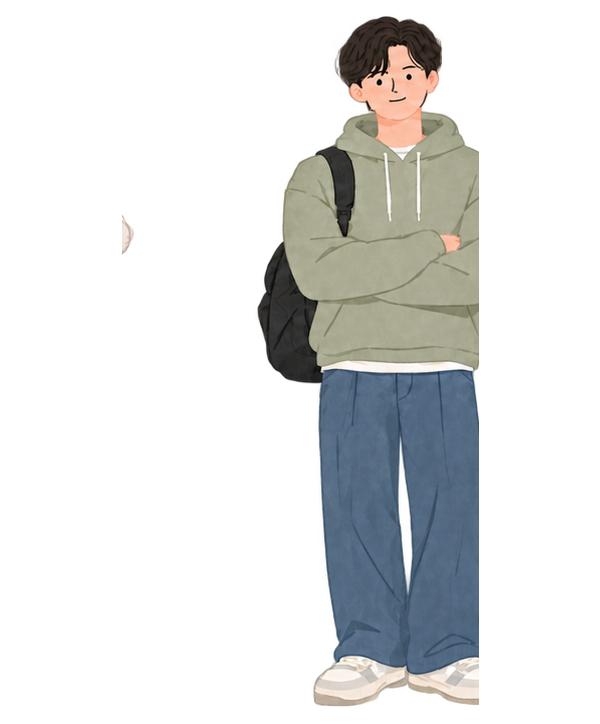
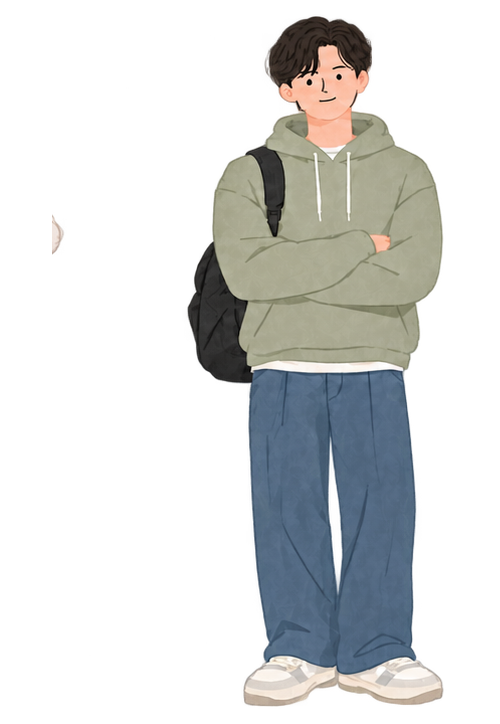
Fix result portrait crops and centering

diff --git a/index.html b/index.html
@@ -11,8 +11,8 @@
     header{height:82px;display:flex;align-items:center;justify-content:space-between;border-bottom:1px solid var(--line);font-size:14px;letter-spacing:.04em}.brand{display:flex;gap:11px;align-items:center;font-weight:600}.brand-mark{width:25px;height:25px;border:1px solid var(--green);border-radius:50%;display:grid;place-items:center;color:var(--green);font:italic 16px var(--serif)}.nav-note{color:var(--muted);letter-spacing:.02em;font-size:13px}
     main{min-height:calc(100vh - 140px)}.screen{display:none}.screen.active{display:block}.hero{display:grid;grid-template-columns:.82fr 1.18fr;gap:34px;align-items:center;min-height:calc(100vh - 178px);padding:48px 0}.hero-copy{display:block}.hero-title-block{max-width:480px}.eyebrow{font-size:15px;letter-spacing:.04em;text-transform:uppercase;color:var(--green);font-weight:600}.hero h1{font:400 clamp(38px,4.4vw,62px)/1.2 var(--serif);letter-spacing:-.035em;margin:20px 0 16px}.hero h1 span{display:block;color:var(--green);font-size:.62em;letter-spacing:.01em;margin:8px 0 0}.hero p{color:var(--muted);font-size:15px;line-height:1.9;max-width:400px;margin:0}.hero-actions{display:flex;align-items:center;gap:18px;margin:29px 0 0;white-space:nowrap}.history-link{border:0;background:none;padding:10px 0;color:var(--green);cursor:pointer;font-size:14px}.history-link span{color:var(--muted);margin-left:5px}.primary{background:var(--ink);color:#fff;padding:15px 27px;border:0;border-radius:2px;cursor:pointer;letter-spacing:.04em;transition:.2s}.primary:hover{background:var(--green);transform:translateY(-2px)}.text-link{border:0;background:none;color:var(--muted);cursor:pointer;font-size:14px}.hero-art{width:100%;line-height:0;position:relative;background:transparent;overflow:visible;border-radius:0;box-shadow:none}.hero-art img{display:block;width:100%;height:auto;max-height:calc(100vh - 280px);object-fit:contain;object-position:center;filter:none}.art-label{position:absolute;right:2px;bottom:-18px;background:transparent;padding:0;font-size:11px;letter-spacing:.02em;color:#73766c;line-height:1.4}.hero-foot{font-size:14px;letter-spacing:.04em;color:#999a91;margin-top:25px}
     footer{border-top:1px solid var(--line);min-height:58px;display:flex;align-items:center;justify-content:space-between;color:#73766c;font-size:12px;letter-spacing:.02em}.quiz{max-width:760px;margin:0 auto;padding:48px 0 70px}.quiz-top{display:flex;justify-content:space-between;align-items:center;color:var(--muted);font-size:15px;letter-spacing:.04em}.progress{height:2px;background:#e5e3da;margin:18px 0 48px}.progress span{display:block;height:100%;background:var(--green);transition:width .25s}.dimension{color:var(--green);font-size:15px;letter-spacing:.03em}.question{font:400 clamp(26px,4vw,38px)/1.5 var(--serif);margin:17px 0 30px;letter-spacing:-.02em}.answers{display:grid;gap:10px}.answer{width:100%;border:1px solid var(--line);background:var(--white);padding:16px 19px;display:flex;gap:17px;align-items:center;text-align:left;cursor:pointer;transition:.18s;border-radius:2px;font-size:16px;line-height:1.7}.answer:hover{border-color:var(--green);transform:translateX(3px)}.answer .letter{width:27px;height:27px;flex:0 0 27px;border:1px solid #d4d5ca;border-radius:50%;display:grid;place-items:center;color:var(--green);font:12px 'HY QiHei'}.quiz-nav{display:flex;justify-content:space-between;margin-top:25px}.back{border:0;background:none;color:var(--muted);cursor:pointer;font-size:14px;padding:10px 0}
-    .history{max-width:850px;margin:0 auto;padding:58px 0 76px}.history-head{display:flex;justify-content:space-between;align-items:end;border-bottom:1px solid var(--line);padding-bottom:19px}.history-head h2{font:400 38px var(--serif);margin:10px 0 0}.history-head p{font-size:14px;color:var(--muted);margin:0}.history-list{display:grid;gap:10px;margin-top:22px}.history-item{display:grid;grid-template-columns:54px 1fr auto;gap:15px;align-items:center;padding:17px 18px;background:var(--white);border:1px solid var(--line)}.history-type{font-size:15px;color:var(--green);letter-spacing:.02em}.history-name{font-size:17px}.history-meta{font-size:15px;color:var(--muted);margin-top:5px}.history-actions{display:flex;gap:8px}.history-actions button{border:1px solid var(--line);background:transparent;padding:9px 12px;font-size:15px;cursor:pointer}.history-actions button:hover{border-color:var(--green);color:var(--green)}.empty-history{text-align:center;border:1px dashed var(--line);padding:52px 20px;color:var(--muted);font-size:15px;line-height:2}.history-footer{display:flex;justify-content:space-between;align-items:center;margin-top:20px;color:var(--muted);font-size:15px}.history-footer button{border:0;background:none;color:var(--muted);cursor:pointer;text-decoration:underline;text-underline-offset:3px}.result{padding:60px 0 75px}.result-head{text-align:center}.result-head h2{font:400 42px var(--serif);margin:14px 0}.result-head p{font-size:15px;color:var(--muted);line-height:1.8}.result-card{max-width:850px;margin:35px auto 0;background:var(--white);border:1px solid var(--line);display:grid;grid-template-columns:.78fr 1.22fr;min-height:425px}.portrait{position:relative;background:#f3f1ea;overflow:hidden;display:flex;align-items:center;justify-content:center;min-height:425px;padding:24px}.portrait img{display:block;width:auto;height:auto;max-width:100%;max-height:377px;object-fit:contain;object-position:center center}.portrait .type-stamp{position:absolute;top:18px;left:18px;color:var(--green);font-size:14px;letter-spacing:.05em}.result-copy{padding:39px 43px}.result-copy h3{font:400 35px var(--serif);margin:5px 0 10px}.motto{font:italic 18px var(--serif);color:var(--green);margin:0 0 23px}.description{font-size:15px;line-height:1.9;color:#676a62}.chips{display:flex;gap:8px;flex-wrap:wrap;margin:21px 0}.chip{border:1px solid var(--line);padding:7px 11px;font-size:14px;color:#72766b}.score{border-top:1px solid var(--line);padding-top:19px;margin-top:20px}.score-row{display:flex;justify-content:space-between;align-items:center;margin-bottom:13px;font-size:15px;color:var(--muted)}.score-row strong{font-size:17px;color:var(--ink);font-weight:500}.meter{height:4px;background:#ecebe4;width:100%;margin-top:8px}.meter i{height:100%;display:block;background:var(--green)}.subscores{display:grid;grid-template-columns:repeat(3,1fr);gap:14px;margin-top:15px}.subscore{font-size:14px;color:var(--muted)}.subscore b{display:block;color:var(--ink);font-weight:500;font-size:15px;margin-bottom:4px}.result-disclaimer{font-size:14px;line-height:1.8;color:#96978e;margin:18px auto;max-width:850px}.result-actions{display:flex;justify-content:center;gap:12px;margin-top:23px;flex-wrap:wrap}.secondary{background:transparent;border:1px solid var(--line);padding:13px 20px;cursor:pointer;font-size:14px}.secondary:hover{border-color:var(--green);color:var(--green)}.identity{max-width:850px;margin:35px auto 0;padding:20px 23px;border:1px solid var(--line);display:flex;justify-content:space-between;align-items:center}.identity p{margin:0;font-size:14px;color:var(--muted);line-height:1.75}.identity button{border:0;background:none;text-decoration:underline;text-underline-offset:4px;cursor:pointer;font-size:14px}.undefined-note{text-align:center;color:var(--muted);font-size:15px;margin:23px}
-    @media(max-width:760px){.wrap{padding:0 22px}header{height:68px}.nav-note{font-size:12px}.hero{grid-template-columns:1fr;gap:24px;padding:42px 0 28px;min-height:unset}.hero-copy{display:block}.hero-title-block{max-width:100%}.hero h1{font-size:clamp(38px,9vw,54px);line-height:1.22}.hero-art{grid-row:1}.hero-art img{max-height:none;width:100%}.hero-actions{margin-top:23px}.hero-foot{margin-top:18px}.art-label{font-size:10px}.quiz{padding:36px 0 55px}.progress{margin:15px 0 38px}.answer{padding:14px}.result{padding:40px 0}.result-card{grid-template-columns:1fr}.portrait{min-height:300px;height:300px;padding:20px}.portrait img{width:auto;height:auto;max-width:100%;max-height:260px;object-fit:contain;object-position:center center}.result-copy{padding:28px 23px}.result-copy h3{font-size:30px}.history{padding:38px 0 55px}.history-head{display:block}.history-head p{margin-top:9px}.history-item{grid-template-columns:40px 1fr;gap:10px;padding:14px}.history-actions{grid-column:2}.history-actions button{flex:1}.history-footer{gap:10px;align-items:flex-start}.identity{gap:15px;padding:16px;align-items:flex-start}.identity p{line-height:1.7}footer{font-size:11px}}
+    .history{max-width:850px;margin:0 auto;padding:58px 0 76px}.history-head{display:flex;justify-content:space-between;align-items:end;border-bottom:1px solid var(--line);padding-bottom:19px}.history-head h2{font:400 38px var(--serif);margin:10px 0 0}.history-head p{font-size:14px;color:var(--muted);margin:0}.history-list{display:grid;gap:10px;margin-top:22px}.history-item{display:grid;grid-template-columns:54px 1fr auto;gap:15px;align-items:center;padding:17px 18px;background:var(--white);border:1px solid var(--line)}.history-type{font-size:15px;color:var(--green);letter-spacing:.02em}.history-name{font-size:17px}.history-meta{font-size:15px;color:var(--muted);margin-top:5px}.history-actions{display:flex;gap:8px}.history-actions button{border:1px solid var(--line);background:transparent;padding:9px 12px;font-size:15px;cursor:pointer}.history-actions button:hover{border-color:var(--green);color:var(--green)}.empty-history{text-align:center;border:1px dashed var(--line);padding:52px 20px;color:var(--muted);font-size:15px;line-height:2}.history-footer{display:flex;justify-content:space-between;align-items:center;margin-top:20px;color:var(--muted);font-size:15px}.history-footer button{border:0;background:none;color:var(--muted);cursor:pointer;text-decoration:underline;text-underline-offset:3px}.result{padding:60px 0 75px}.result-head{text-align:center}.result-head h2{font:400 42px var(--serif);margin:14px 0}.result-head p{font-size:15px;color:var(--muted);line-height:1.8}.result-card{max-width:850px;margin:35px auto 0;background:var(--white);border:1px solid var(--line);display:grid;grid-template-columns:.78fr 1.22fr;min-height:425px}.portrait{position:relative;background:#f3f1ea;overflow:visible;display:flex;align-items:center;justify-content:center;min-height:425px;padding:24px}.portrait img{display:block;width:100%;height:auto;max-height:377px;object-fit:contain;object-position:center center}.portrait .type-stamp{position:absolute;top:18px;left:18px;color:var(--green);font-size:14px;letter-spacing:.05em}.result-copy{padding:39px 43px}.result-copy h3{font:400 35px var(--serif);margin:5px 0 10px}.motto{font:italic 18px var(--serif);color:var(--green);margin:0 0 23px}.description{font-size:15px;line-height:1.9;color:#676a62}.chips{display:flex;gap:8px;flex-wrap:wrap;margin:21px 0}.chip{border:1px solid var(--line);padding:7px 11px;font-size:14px;color:#72766b}.score{border-top:1px solid var(--line);padding-top:19px;margin-top:20px}.score-row{display:flex;justify-content:space-between;align-items:center;margin-bottom:13px;font-size:15px;color:var(--muted)}.score-row strong{font-size:17px;color:var(--ink);font-weight:500}.meter{height:4px;background:#ecebe4;width:100%;margin-top:8px}.meter i{height:100%;display:block;background:var(--green)}.subscores{display:grid;grid-template-columns:repeat(3,1fr);gap:14px;margin-top:15px}.subscore{font-size:14px;color:var(--muted)}.subscore b{display:block;color:var(--ink);font-weight:500;font-size:15px;margin-bottom:4px}.result-disclaimer{font-size:14px;line-height:1.8;color:#96978e;margin:18px auto;max-width:850px}.result-actions{display:flex;justify-content:center;gap:12px;margin-top:23px;flex-wrap:wrap}.secondary{background:transparent;border:1px solid var(--line);padding:13px 20px;cursor:pointer;font-size:14px}.secondary:hover{border-color:var(--green);color:var(--green)}.identity{max-width:850px;margin:35px auto 0;padding:20px 23px;border:1px solid var(--line);display:flex;justify-content:space-between;align-items:center}.identity p{margin:0;font-size:14px;color:var(--muted);line-height:1.75}.identity button{border:0;background:none;text-decoration:underline;text-underline-offset:4px;cursor:pointer;font-size:14px}.undefined-note{text-align:center;color:var(--muted);font-size:15px;margin:23px}
+    @media(max-width:760px){.wrap{padding:0 22px}header{height:68px}.nav-note{font-size:12px}.hero{grid-template-columns:1fr;gap:24px;padding:42px 0 28px;min-height:unset}.hero-copy{display:block}.hero-title-block{max-width:100%}.hero h1{font-size:clamp(38px,9vw,54px);line-height:1.22}.hero-art{grid-row:1}.hero-art img{max-height:none;width:100%}.hero-actions{margin-top:23px}.hero-foot{margin-top:18px}.art-label{font-size:10px}.quiz{padding:36px 0 55px}.progress{margin:15px 0 38px}.answer{padding:14px}.result{padding:40px 0}.result-card{grid-template-columns:1fr}.portrait{min-height:unset;height:auto;padding:20px;overflow:visible}.portrait img{width:min(100%,260px);height:auto;max-width:100%;max-height:none;object-fit:contain;object-position:center center}.result-copy{padding:28px 23px}.result-copy h3{font-size:30px}.history{padding:38px 0 55px}.history-head{display:block}.history-head p{margin-top:9px}.history-item{grid-template-columns:40px 1fr;gap:10px;padding:14px}.history-actions{grid-column:2}.history-actions button{flex:1}.history-footer{gap:10px;align-items:flex-start}.identity{gap:15px;padding:16px;align-items:flex-start}.identity p{line-height:1.7}footer{font-size:11px}}
     @media(prefers-reduced-motion:reduce){*{scroll-behavior:auto!important;transition:none!important}}
   </style>
 </head>
